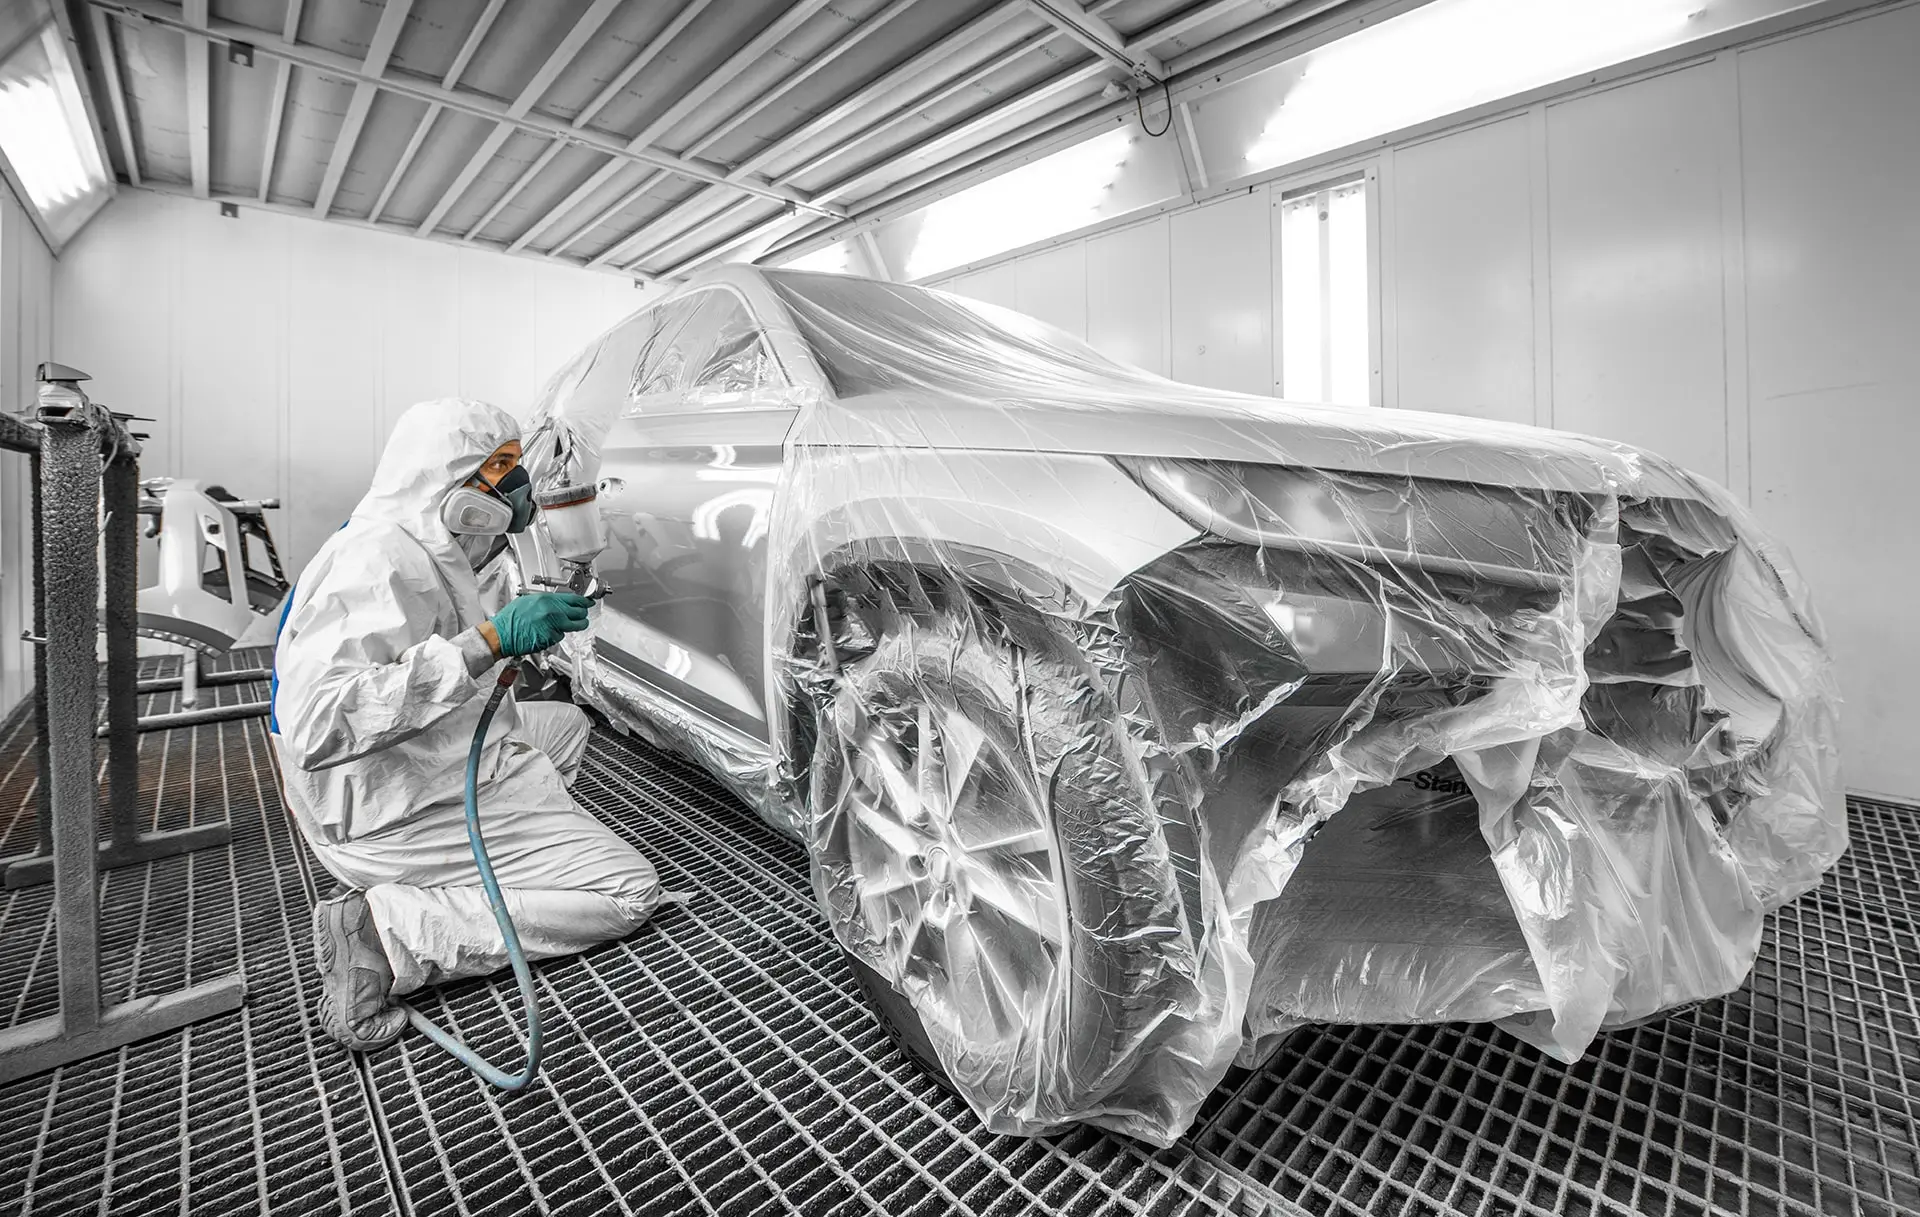
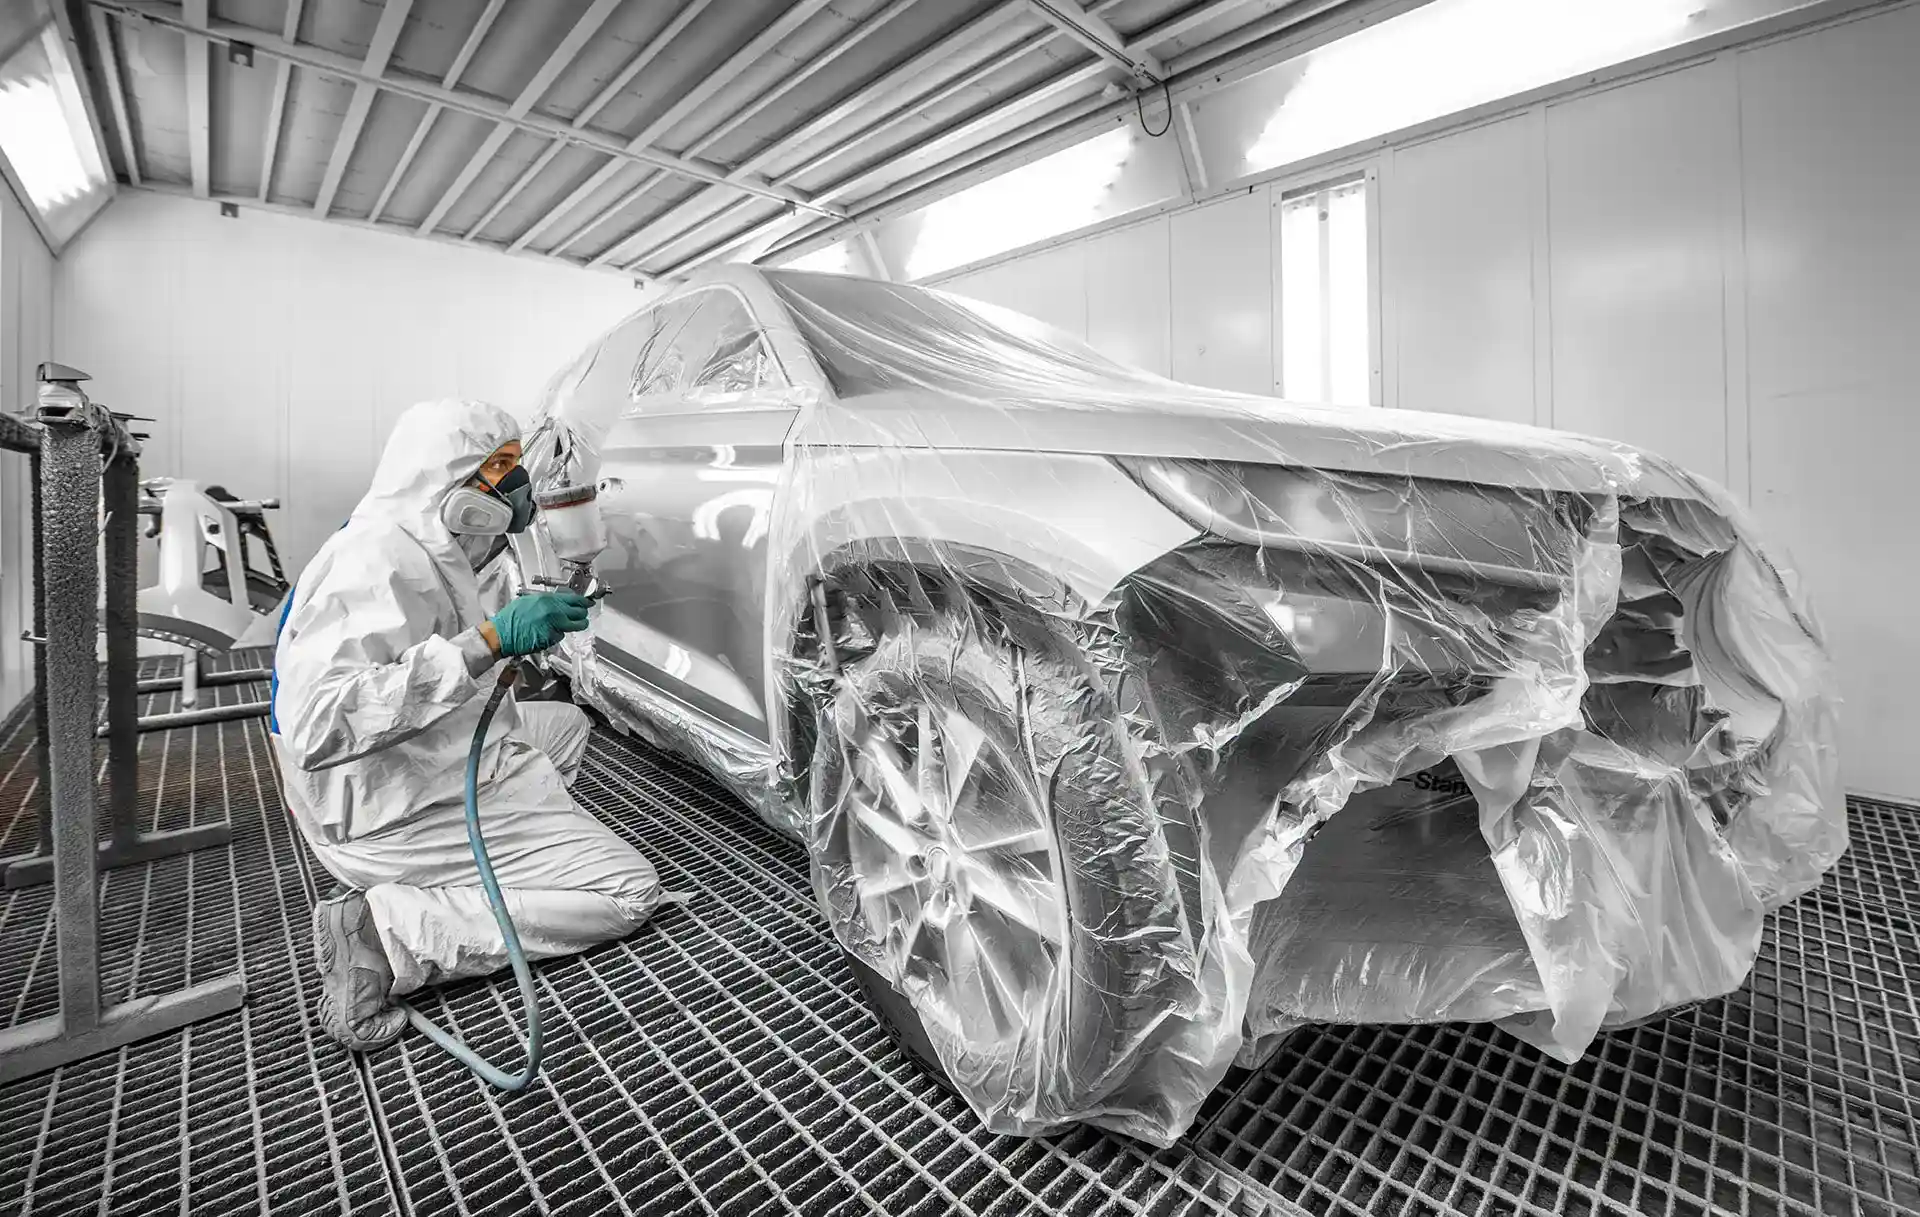
optimizing

diff --git a/carpainting/src/app/home/home.component.html b/carpainting/src/app/home/home.component.html
@@ -13,10 +13,10 @@
     <div class="comparison-slider-wrapper">
       <div class="comparison-slider">
         <div [innerHTML]="'home.overlay_after' | translate" class="overlay"></div>
-        <img alt="After Image" src="/assets/images/before-after/before2.jpg">
+        <img alt="After Image" src="/assets/images/before-after/before2.webp">
         <div class="resize">
           <div [innerHTML]="'home.overlay_before' | translate" class="overlay"></div>
-          <img alt="Before Image" class="before-img" src="/assets/images/before-after/before1.jpg">
+          <img alt="Before Image" class="before-img" src="/assets/images/before-after/before1.webp">
         </div>
         <div class="divider"></div>
       </div>
@@ -32,10 +32,10 @@
       <div class="left-side">
         <div class="row">
           <div class="col-lg-6 col-md-6 col-6 left">
-            <img alt="Painting" height="1172" ngSrc="assets/images/painting.jpeg" width="880">
+            <img alt="Painting" src="assets/images/painting.webp">
           </div>
           <div class="col-lg-6 col-md-6 col-6 right">
-            <img alt="Painting1" class="second-img" height="900" ngSrc="assets/images/painting1.jpeg" width="820">
+            <img alt="Painting1" class="second-img" src="assets/images/painting1.webp">
           </div>
         </div>
       </div>
@@ -55,12 +55,12 @@
 
       <div class="phone-numbers">
         <div class="info-number">
-          <img src="/assets/images/ipko-icon.svg" alt="">
+          <img alt="ipko-icon" src="/assets/images/ipko-icon.svg">
           <p>+383 49 491 331</p>
         </div>
 
         <div class="info-number">
-          <img src="/assets/images/vala-icon.png" alt="">
+          <img alt="vala-icon" src="/assets/images/vala-icon.webp">
           <p>+383 44 102 372</p>
         </div>
       </div>
@@ -76,13 +76,19 @@
 <div class="container gallery" id="gallery">
   <ul class="navbar-nav mb-2">
     <li (click)="setLayout('layout1')" class="nav-item">
-      <button [class.active]="currentLayout === 'layout1'" class="nav-link">{{ 'painting.layout_1.paint' | translate }}</button>
+      <button [class.active]="currentLayout === 'layout1'"
+              class="nav-link">{{ 'painting.layout_1.paint' | translate }}
+      </button>
     </li>
     <li (click)="setLayout('layout2')" class="nav-item">
-      <button [class.active]="currentLayout === 'layout2'" class="nav-link">{{ 'painting.layout_2.paint' | translate }}</button>
+      <button [class.active]="currentLayout === 'layout2'"
+              class="nav-link">{{ 'painting.layout_2.paint' | translate }}
+      </button>
     </li>
     <li (click)="setLayout('layout3')" class="nav-item">
-      <button [class.active]="currentLayout === 'layout3'" class="nav-link">{{ 'painting.layout_3.paint' | translate }}</button>
+      <button [class.active]="currentLayout === 'layout3'"
+              class="nav-link">{{ 'painting.layout_3.paint' | translate }}
+      </button>
     </li>
   </ul>
 
@@ -104,7 +110,7 @@
       <div class="row right-side">
         <div class="col-md-12">
           <div (mouseleave)="onMouseLeave('desc3')" (mousemove)="onMouseMove($event, 'desc3')" class="image-container">
-            <img alt="car-painting"  src="assets/images/gallery-third-image.webp">
+            <img alt="car-painting" src="assets/images/gallery-third-image.webp">
             <div class="overlay" id="desc3">{{ 'painting.layout_1.img_3' | translate }}</div>
           </div>
         </div>
@@ -148,19 +154,19 @@
   <div *ngIf="currentLayout === 'layout3'" [ngClass]="{'fade-in': showFadeIn}" class="all">
     <div class="col-lg-4 col-md-6 col-12">
       <div (mouseleave)="onMouseLeave('desc8')" (mousemove)="onMouseMove($event, 'desc8')" class="image-container">
-        <img alt="car-repair" height="1280" ngSrc="assets/images/gallerySecond-first.webp" width="1920">
+        <img alt="car-repair" src="assets/images/gallerySecond-first.webp">
         <div class="overlay" id="desc8">{{ 'painting.layout_3.img_1' | translate }}</div>
       </div>
     </div>
     <div class="col-lg-4 col-md-6 col-12">
       <div (mouseleave)="onMouseLeave('desc9')" (mousemove)="onMouseMove($event, 'desc9')" class="image-container">
-        <img alt="car-repair" height="1280" ngSrc="assets/images/gallerySecond-second.webp" width="1920">
+        <img alt="car-repair" src="assets/images/gallerySecond-second.webp">
         <div class="overlay" id="desc9">{{ 'painting.layout_3.img_2' | translate }}</div>
       </div>
     </div>
     <div class="col-lg-4 col-md-12 col-12 ">
       <div (mouseleave)="onMouseLeave('desc10')" (mousemove)="onMouseMove($event, 'desc10')" class="image-container">
-        <img alt="car-repair" height="1280" ngSrc="assets/images/gallerySecond-third.webp" width="1920">
+        <img alt="car-repair" src="assets/images/gallerySecond-third.webp">
         <div class="overlay" id="desc10">{{ 'painting.layout_3.img_3' | translate }}</div>
       </div>
     </div>

diff --git a/carpainting/src/app/home/home.component.ts b/carpainting/src/app/home/home.component.ts
@@ -16,12 +16,12 @@ import {TranslateModule} from "@ngx-translate/core";
   styleUrl: './home.component.scss',
 })
 
-export class HomeComponent implements AfterViewInit{
+export class HomeComponent implements AfterViewInit {
   currentLayout: string = 'layout1';
   showFadeIn: boolean = true;
   private touched = false;
 
-  constructor(private renderer: Renderer2,private elementRef: ElementRef) {
+  constructor(private renderer: Renderer2, private elementRef: ElementRef) {
   }
 
   ngAfterViewInit(): void {
@@ -30,49 +30,6 @@ export class HomeComponent implements AfterViewInit{
     const resize = this.elementRef.nativeElement.querySelector('.resize');
 
     this.initSlider(slider, divider, resize);
-  }
-
-  private initSlider(slider: HTMLElement, divider: HTMLElement, resize: HTMLElement) {
-    const onMove = (event: MouseEvent | TouchEvent) => {
-      const containerOffset = slider.getBoundingClientRect().left;
-      const containerWidth = slider.offsetWidth;
-      const dragWidth = divider.offsetWidth;
-
-      let moveX = this.getEventX(event);
-      let leftValue = moveX - containerOffset - dragWidth / 2;
-
-      if (leftValue < 0) leftValue = 0;
-      if (leftValue > containerWidth - dragWidth) leftValue = containerWidth - dragWidth;
-
-      const widthValue = ((leftValue + dragWidth / 2) * 100) / containerWidth + '%';
-
-      divider.style.left = widthValue;
-      resize.style.width = widthValue;
-    };
-
-    const startDragging = (event: MouseEvent | TouchEvent) => {
-      this.touched = event.type === 'touchstart';
-      document.body.classList.add('no-scroll');
-      window.addEventListener(this.touched ? 'touchmove' : 'mousemove', onMove);
-      window.addEventListener(this.touched ? 'touchend' : 'mouseup', stopDragging);
-    };
-
-    const stopDragging = () => {
-      document.body.classList.remove('no-scroll');
-      window.removeEventListener(this.touched ? 'touchmove' : 'mousemove', onMove);
-      window.removeEventListener(this.touched ? 'touchend' : 'mouseup', stopDragging);
-    };
-
-    divider.addEventListener('mousedown', startDragging);
-    divider.addEventListener('touchstart', startDragging);
-  }
-
-  private getEventX(event: MouseEvent | TouchEvent): number {
-    if (event instanceof MouseEvent) {
-      return event.pageX;
-    } else {
-      return event.touches[0].pageX;
-    }
   }
 
   onMouseMove(event: MouseEvent, overlayId: string): void {
@@ -117,6 +74,50 @@ export class HomeComponent implements AfterViewInit{
       });
     } else {
       console.log('Contact form element not found.');
+    }
+  }
+
+  private initSlider(slider: HTMLElement, divider: HTMLElement, resize: HTMLElement) {
+    const onMove = (event: MouseEvent | TouchEvent) => {
+      const containerOffset = slider.getBoundingClientRect().left;
+      const containerWidth = slider.offsetWidth;
+      const dragWidth = divider.offsetWidth;
+
+      let moveX = this.getEventX(event);
+      let leftValue = moveX - containerOffset - dragWidth / 2;
+
+      if (leftValue < 0) leftValue = 0;
+      if (leftValue > containerWidth - dragWidth) leftValue = containerWidth - dragWidth;
+
+      const widthValue = ((leftValue + dragWidth / 2) * 100) / containerWidth + '%';
+
+      divider.style.left = widthValue;
+      resize.style.width = widthValue;
+    };
+
+    const startDragging = (event: MouseEvent | TouchEvent) => {
+      this.touched = event.type === 'touchstart';
+      document.body.classList.add('no-scroll');
+      window.addEventListener(this.touched ? 'touchmove' : 'mousemove', onMove, { passive: true });
+      window.addEventListener(this.touched ? 'touchend' : 'mouseup', stopDragging, { passive: true });
+    };
+
+    const stopDragging = () => {
+      document.body.classList.remove('no-scroll');
+      window.removeEventListener(this.touched ? 'touchmove' : 'mousemove', onMove);
+      window.removeEventListener(this.touched ? 'touchend' : 'mouseup', stopDragging);
+    };
+
+    divider.addEventListener('mousedown', startDragging, { passive: true });
+    divider.addEventListener('touchstart', startDragging, { passive: true });
+  }
+
+
+  private getEventX(event: MouseEvent | TouchEvent): number {
+    if (event instanceof MouseEvent) {
+      return event.pageX;
+    } else {
+      return event.touches[0].pageX;
     }
   }
 }

diff --git a/carpainting/src/app/slider/slider.component.html b/carpainting/src/app/slider/slider.component.html
@@ -6,7 +6,7 @@
           <h2>{{ 'slider.slide_1.heading_1' | translate }}</h2>
           <h1>{{ 'slider.slide_1.heading_2' | translate }}</h1>
         </div>
-        <img src="assets/images/slide-images/slide-img1.webp" alt="car-details">
+        <img src="assets/images/slide-images/slide-img1.webp" alt="car-details" >
         <div class="scroll-down">
           <div class="scroll" (click)="scrollToContactForm()">
             <h2 class="custom-text">{{ 'slider.scroll_down' | translate }}</h2>

diff --git a/carpainting/src/app/navbar/navbar.component.html b/carpainting/src/app/navbar/navbar.component.html
@@ -1,7 +1,7 @@
 <nav class="navbar navbar-expand-lg ">
   <div class="container-fluid">
     <a class="navbar-brand" href="#">
-      <img alt="Bootstrap" class="img-fluid" src="assets/images/logo-2.png" >
+      <img alt="Bootstrap" class="img-fluid" src="assets/images/logo-2.webp">
     </a>
     <div class="custom-ham">
       <input data-bs-target="#navbarSupportedContent" data-bs-toggle="collapse" id="checkbox" type="checkbox">

diff --git a/carpainting/src/index.html b/carpainting/src/index.html
@@ -6,7 +6,6 @@
   <base href="/">
   <meta name="viewport" content="width=device-width, initial-scale=1">
   <link rel="icon" type="image/x-icon" href="favicon.ico">
-  <link rel="stylesheet" href="https://cdnjs.cloudflare.com/ajax/libs/font-awesome/6.5.0/css/all.min.css">
   <script src="https://unpkg.com/swiper/swiper-bundle.min.js"></script>
 
   <!-- Primary Meta Tags -->

diff --git a/carpainting/src/app/home/home.component.scss b/carpainting/src/app/home/home.component.scss
@@ -4,7 +4,7 @@
 
 
 .custom-field {
-  background-image: url("../../assets/images/up-section.jpeg");
+  background-image: url("../../assets/images/up-section.webp");
   background-repeat: no-repeat;
   background-size: cover;
 

diff --git a/carpainting/src/app/navbar/navbar.component.scss b/carpainting/src/app/navbar/navbar.component.scss
@@ -28,7 +28,7 @@
         padding: 0;
       }
       img {
-        max-width: 200px;
+        width: 200px;
         height: 100px;
         border-radius: 10px;
         @include tablet-view{

diff --git a/carpainting/src/app/slider/slider.component.scss b/carpainting/src/app/slider/slider.component.scss
@@ -29,6 +29,10 @@
     @include mobile-view {
       height: 422px;
     }
+    img{
+      width: auto;
+      height: auto;
+    }
 
     .text.second {
       max-width: 950px;

diff --git a/carpainting/src/app/contactform/contactform.component.html b/carpainting/src/app/contactform/contactform.component.html
@@ -60,7 +60,6 @@
           title="Map showing Auto Ngjyrosje Naseri location">
         </iframe>
 
-
       </div>
 
     </div>
